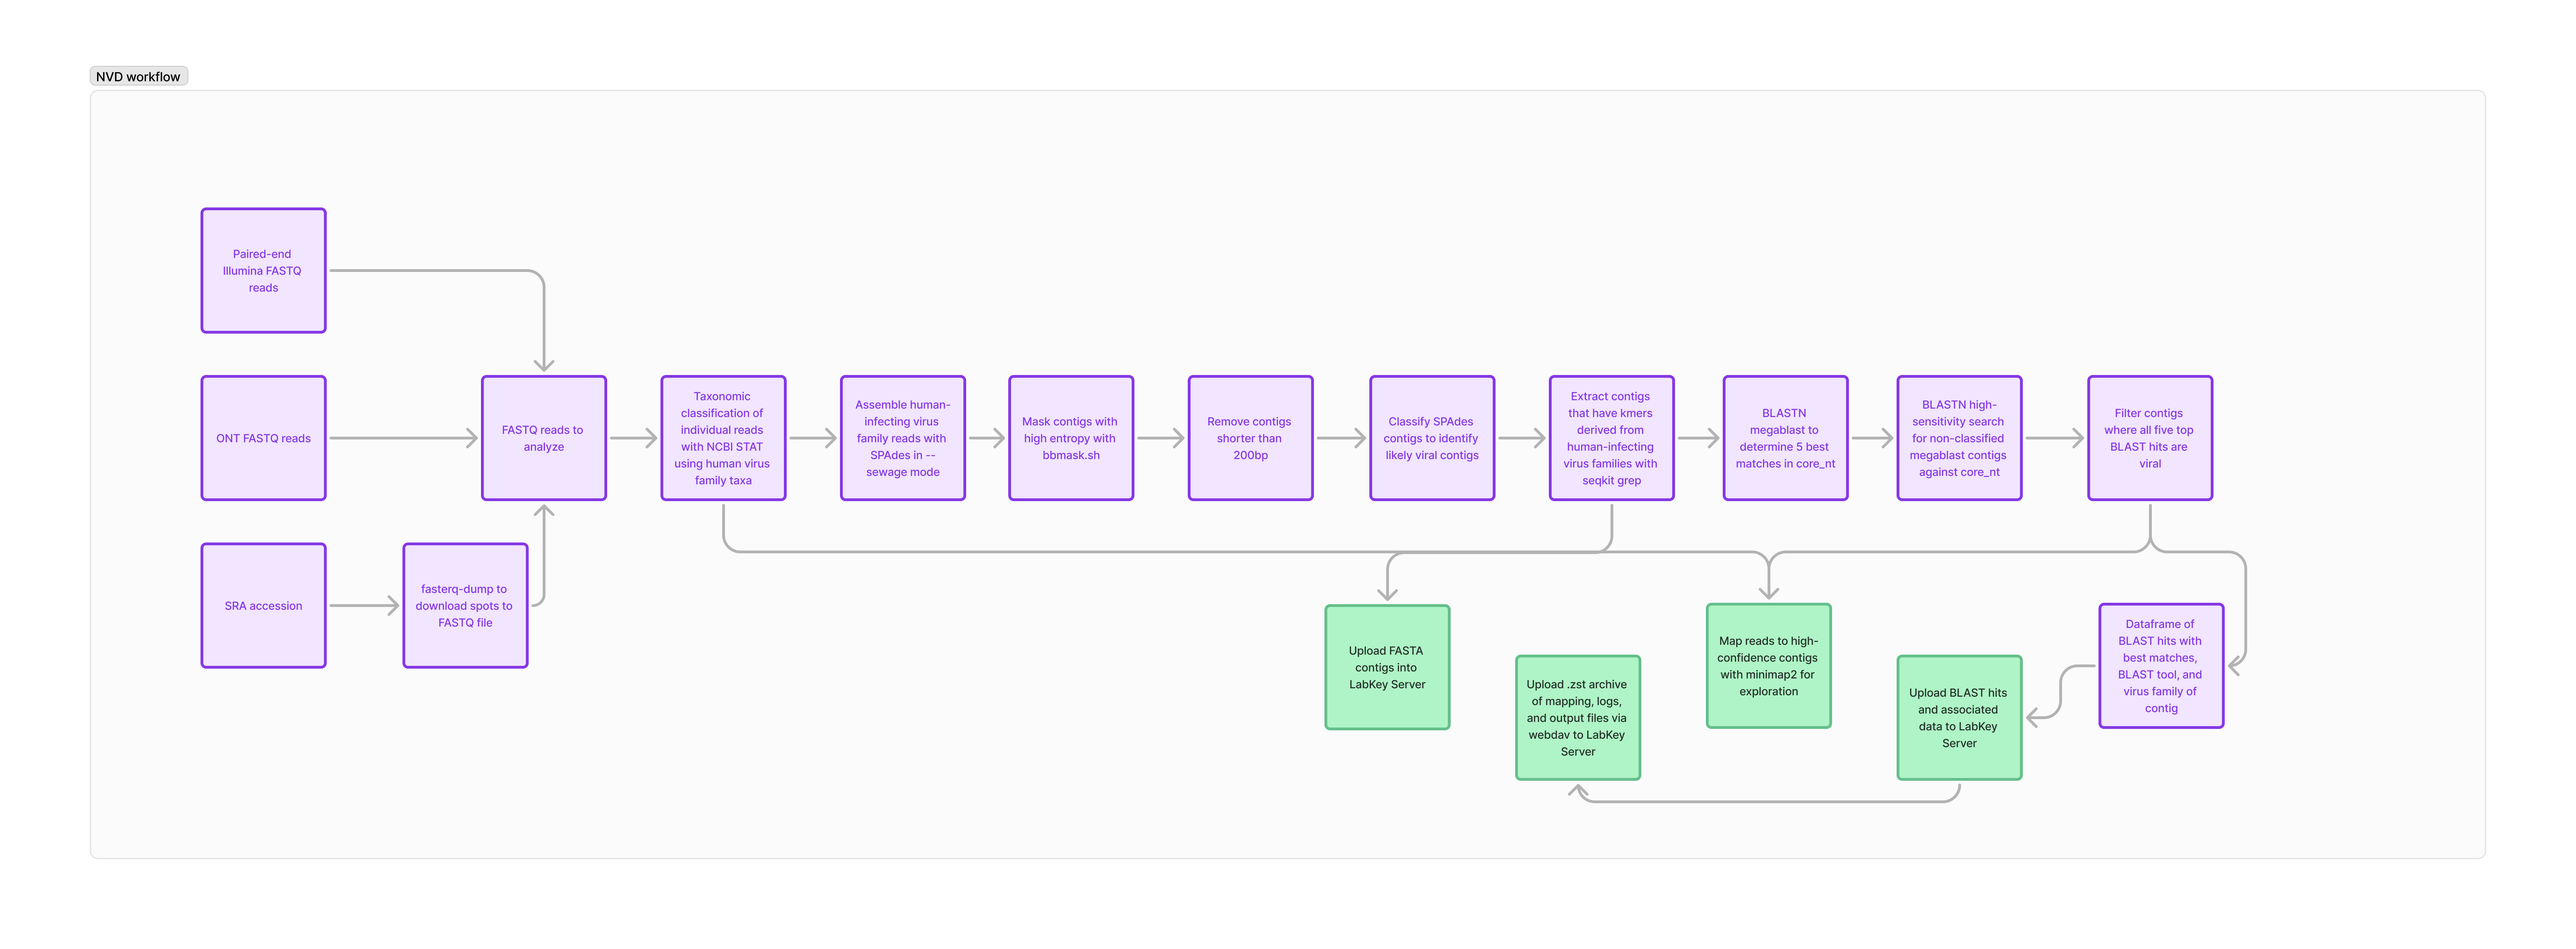
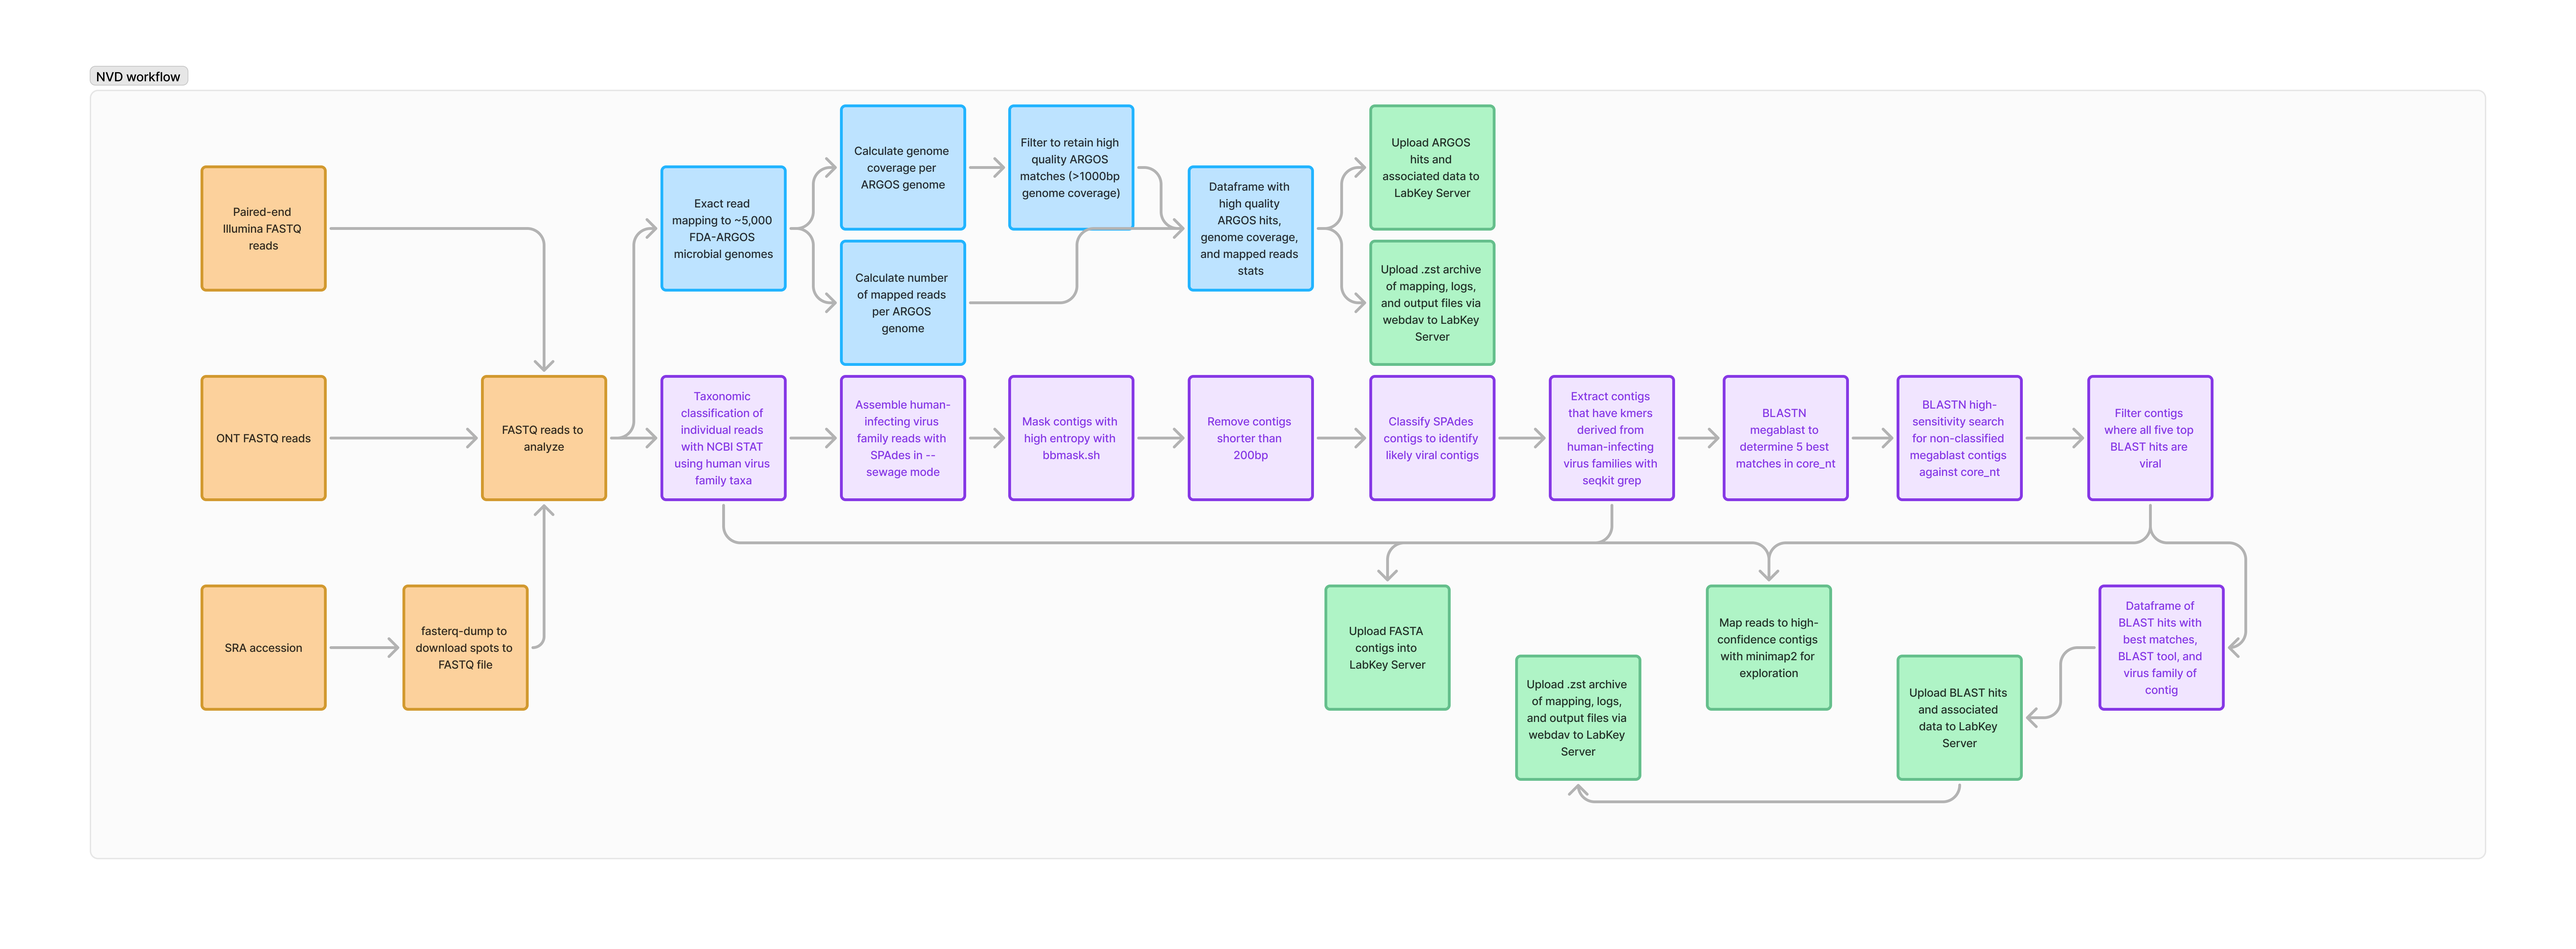
merge

diff --git a/README.md b/README.md
@@ -25,17 +25,20 @@
 ## About NVD
 ![NVD flowchart](nvd_flow.png)
 
-NVD is an opinionated workflow for identifying and exploring metagenomes for families of viruses that infect humans. It is opinionated in that it focuses narrowly on these virus families to the exclusion of other potentially interesting viral and non-viral microbial taxa. NVD works with arbitrarily large Oxford Nanopore and Illumina datasets without downsampling. The results are available in a LabKey Server data explorer available to O'Connor lab users and collaborators. For those without LabKey data explorer access, results are stored locally.
+NVD is an opinionated workflow for identifying and exploring metagenomes for:
+- Families of viruses that infect humans.
+- Sequences that support the presence of microbial reads in [FDA-ARGOS](https://www.fda.gov/medical-devices/science-and-research-medical-devices/database-reference-grade-microbial-sequences-fda-argos).
+It is opinionated in that it focuses narrowly on these tasks to the exclusion of other potentially interesting viral and non-viral microbial taxa. NVD works with arbitrarily large Oxford Nanopore and Illumina datasets without downsampling. The results are available in a LabKey Server data explorer available to O'Connor lab users and collaborators. For those without LabKey data explorer access, results are stored locally.
 
 ### Why Another Metagenomic Workflow?
 
-Good question. When I started working on NVD in June 2024, I hoped to find a widely used, easy-to-use workflow optimized for viral metagenomics. [CZID](https://czid.org) is excellent, but downsamples to a subset of reads. Sometimes this isn't a problem; sometimes it causes substantial reductions in sensitivity. The outstanding [Sourmash](https://github.com/sourmash-bio/sourmash) tools perform informative, efficient searches against reference databases but do not generate contigs that can be used to characterize interesting viruses.
+Good question. When I started working on NVD in June 2024, I hoped to find a widely used, easy-to-use workflow optimized for viral metagenomics. [CZID](https://czid.org) is excellent, but downsamples to a subset of reads. Sometimes this isn't a problem; sometimes it causes substantial reductions in sensitivity. The outstanding [Sourmash](https://github.com/sourmash-bio/sourmash) tools perform informative, efficient searches against reference databases but do not generate contigs that can be used to characterize interesting viruses. In December 2024 I added functionality for exploring matches to FDA-ARGOS reference microbial genomes.
 
 ### What Does NVD Do?
 
 NVD begins with one or more Illumina paired-end or Oxford Nanopore datasets. It can also evaluate datasets downloaded from NCBI SRA. In the case of Illumina datasets, paired-end sequences are interleaved and properly paired using the bbmap `repair.sh` tool before processing.
 
-These reads are the classified with the NCBI STAT tool, specifically the `aligns_to` command. A tax list containing the entire subtree of the virus families that infect humans is used for classification. This means that NVD is designed to find members of these virus families:
+These reads are classified with the NCBI STAT tool, specifically the `aligns_to` command. A tax list containing the entire subtree of the virus families that infect humans is used for classification. This means that NVD is designed to find members of these virus families:
 
 - Adenoviridae
 - Anelloviridae
@@ -77,13 +80,15 @@ These viral contigs are then used as BLAST queries against the NCBI `core-nt` da
 Additionally, the putative viral reads are mapped against the viral contigs. This allows further exploration and confirmation of any unexpected or unusual hits.
 
 The blast classifications, read mapping information, and associated contig metadata are then saved to an output folder in CSV format (and loaded into a database in the O'Connor lab LabKey Server, if appropriate access credentials are provided). `.zst` archives containing useful data files (e.g., read mapping `.bam` files) are also saved in the output folder.
+
+The input reads are also mapped to 4,889 sequences in the [FDA-ARGOS](https://www.ncbi.nlm.nih.gov/bioproject/231221) database. Reads are mapped with `minimap` and then filtered using `reformat.sh` to retain only reads with no soft clipping or substitutions relative to the reference sequence. That is, sequences that are exact matches or exact matches with one or more indels, to improve sensitivity with ONT data. Read coverage of each reference sequence is computed and all reference sequences with at least 2kb of read coverage (an opinionated but ultimately arbitrary threshold that seems to strike a good balance between sensitivity and specificity) are retained. For each of these high-quality microbial hits, data on genome coverage and the number of mapped reads are saved to a CSV file (and loaded into a database in the O'Connor lab LabKey Server if appropriate credentials are provided). FDA-ARGOS reference sequences for these hits and the `.bam` files of reads mapped to these references are saved in the `.zst` archive for additional exploration.  
   
 <p align="right">(<a href="#readme-top">back to top</a>)</p>
 
 <!-- GETTING STARTED -->
 ## Getting Started
 
-NVD is written in Snakemake and has its dependencies bundled in an Apptainer container. NVD should work on machines with at least 32GB of available RAM. The `resources.zst` file is approximately 230GB. After decompression, it is approximately 300GB. The amount of storage needed depends on the size of the FASTQ files; 530GB plus 3x the size of the input FASTQ files is a good guide. For example, if the input FASTQ files are 100GB, ensure that at least 830GB of storage are available. Most testing has been done on Ubuntu Linux, however, a Dockerfile for replicating the Apptainer image is available for running on Macs running Docker Desktop.
+NVD is written in Snakemake and has its dependencies bundled in an Apptainer container. NVD should work on machines with at least 32GB of available RAM. The `resources.zst` file is approximately 250GB. After decompression, it is approximately 285GB. The amount of storage needed depends on the size of the FASTQ files; 550GB plus 3x the size of the input FASTQ files is a good guide. For example, if the input FASTQ files are 100GB, ensure that at least 850GB of storage are available. Most testing has been done on Ubuntu Linux, however, a Dockerfile for replicating the Apptainer image is available for running on Macs running Docker Desktop.
 
 ### Prerequisites
 
@@ -92,11 +97,23 @@ NVD is written in Snakemake and has its dependencies bundled in an Apptainer con
 - [Apptainer](https://apptainer.org/docs/admin/main/installation.html) (for Linux)
 - [Docker Desktop](https://www.docker.com/products/docker-desktop/) (for MacOS)
 - [Snakemake](https://snakemake.readthedocs.io/en/stable/)
-- The `resources.zst` archive containing NCBI BLAST `core-nt`, NCBI STAT databases, a taxonomic rank database, and a taxonomic list of the subtree of human-infecting virus families.
+- The `resources.zst` archive containing:
+	- NCBI BLAST `core-nt`
+   	- NCBI STAT databases
+   	- A taxonomic rank database
+    	- A taxonomic list of the subtree of human-infecting virus families
+   	- A gzipped-FASTA file with the FDA-ARGOS sequences
 
-The `resources.20240830.zst` version contains `core-nt` downloaded from NCBI on 2024-08-03, the STAT tree index downloaded 2024-08-30, the STAT tree filter.dbss and associated annotations downloaded 2024-08-30, `gettax.sqlite` downloaded on 2024-08-30, and a `human_viruses_taxlist.txt` created on 2024-09-05. 
-- The `workflow` folder containing the Snakemake workflow and associated python scripts
-- A `config` folder containing a `config.yaml` file specifying runtime variables and the samples to be analyzed. You also need to get the LabKey API Key, LabKey username, and LabKey password information from DHO for LabKey integration.
+The `resources.20241204.zst` version contains:
+- `core-nt` downloaded from NCBI on 2024-08-03
+- the STAT tree index downloaded 2024-08-30
+- the STAT tree filter.dbss and associated annotations downloaded 2024-08-30
+- `gettax.sqlite` downloaded on 2024-08-30
+- a `human_viruses_taxlist.txt` created on 2024-09-05
+- an FDA-ARGOS database downloaded on 2024-12-01.
+  
+The `workflow` folder containing the Snakemake workflow and associated python scripts
+The `config` folder containing a `config.yaml` file specifying runtime variables and the samples to be analyzed. You also need to get the LabKey API Key, LabKey username, and LabKey password information from DHO for LabKey integration.
 
 ### Linux Installation
 
@@ -110,17 +127,12 @@ The `resources.20240830.zst` version contains `core-nt` downloaded from NCBI on 
 	conda activate nvd
 	conda install -y snakemake apptainer -c conda-forge
 	``` 
-3. [Download](https://g-2e5b4e.dtn.globus.wisc.edu/nvd/nvd.30572.sif)) the Apptainer image file. If you have Globus access, this link is much, much faster than the `wget` access command shown below:.
-   ```sh
-   wget https://dholk.primate.wisc.edu/_webdav/dho/projects/lungfish/InfinitePath/public/%40files/nvd.30572.sif
-   ```
-4. [Download](https://g-2e5b4e.dtn.globus.wisc.edu/nvd/resources.20240830.zst) the `resources.zst` file containing databases and taxonomy files (note, this is ~230GB and will take a while to download. I suggest going out for an iced tea while you wait). If you have Globus access, this link is much, much faster than the `wget` access command shown below:
-   ```sh
-   wget https://dholk.primate.wisc.edu/_webdav/dho/projects/lungfish/InfinitePath/public/%40files/resources.20240830.zst
-   ```
+3. [Download](https://dholk.primate.wisc.edu/_webdav/dho/projects/lungfish/InfinitePath/public/%40files/nvd.30572.sif) the Apptainer image file.
+
+4. [Download][(https://g-2e5b4e.dtn.globus.wisc.edu/nvd/resources.20241204.zst] the `resources.zst` file containing databases and taxonomy files. Note, this is ~250GB and will take a while to download. I suggest going out for an iced tea while you wait.
 5. Decompress the `resources.zst` file in the working directory and remove source after decompression
    ```sh
-   tar -I zstd -xvf resources.20240830.zst && rm resources.20240830.zst
+   tar -I zstd -xvf resources.20241204.zst && rm resources.20241204.zst
    ```
 6. Copy gzipped-FASTQ files to process into `data` folder within the working directory.
 7. Modify the `config.yaml` file to specify the experiment number (an integer) and an output directory.
@@ -137,7 +149,7 @@ The `resources.20240830.zst` version contains `core-nt` downloaded from NCBI on 
    ```
    Many samples can be processed in the same workflow invokation. Multiple sample types can be processed at once. There is also a version of this workflow that runs one sample at a time on [CHTC](https://chtc.cs.wisc.edu) execute nodes. Ask DHO for details. 
    (note: if you have access to upload results to the LabKey data explorer, you will also need to add LabKey credentials to the `config.yaml` file. Ask DHO for details.)
-10. Start an Apptainer shell in the working directory with the repo files
+9. Start an Apptainer shell in the working directory with the repo files
    ```
    apptainer shell nvd.30572.sif
    ```
@@ -157,7 +169,7 @@ After installation, there should be `data`, `config`, `resources`, and `workflow
 	conda activate nvd
 	conda install -y snakemake -c conda-forge
 	```
-4. [Download](https://g-2e5b4e.dtn.globus.wisc.edu/nvd/nvd.30572.tar) the Docker image file. If you have Globus access, this link is much, much faster than the `wget` access command shown below:
+4. [Download](https://g-2e5b4e.dtn.globus.wisc.edu/nvd/nvd.30572.tar](https://dholk.primate.wisc.edu/_webdav/dho/projects/lungfish/InfinitePath/public/%40files/nvd.30572.tar) the Docker image file. If you have Globus access, this link is much, much faster than the `wget` access command shown below:
    ```sh
    wget https://dholk.primate.wisc.edu/_webdav/dho/projects/lungfish/InfinitePath/public/%40files/nvd.30572.tar
    ```
@@ -165,13 +177,10 @@ After installation, there should be `data`, `config`, `resources`, and `workflow
    ```sh
    docker load -i docker/nvd.tar
    ```
-6. [Download](https://g-2e5b4e.dtn.globus.wisc.edu/nvd/resources.20240830.zst) the `resources.zst` file containing databases and taxonomy files (note, this is ~230GB and will take a while to download. I suggest going out for an iced tea while you wait). If you have Globus access, this link is much, much faster than the `wget` access command shown below:
-   ```sh
-   wget https://dholk.primate.wisc.edu/_webdav/dho/projects/lungfish/InfinitePath/public/%40files/resources.20240830.zst
-   ```
+6. [Download](https://dholk.primate.wisc.edu/_webdav/dho/projects/lungfish/InfinitePath/public/%40files/resources.20241204.zst)) the `resources.zst` file containing databases and taxonomy files. Note, this is ~250GB and will take a while to download. I suggest going out for an iced tea while you wait.
 7. Decompress the `resources.zst` file in the working directory and remove source after decompression
    ```sh
-   tar -I zstd -xvf resources.20240830.zst && rm resources.20240830.zst
+   tar -I zstd -xvf resources.20241204.zst && rm resources.20241204.zst
    ```
 8. Copy gzipped-FASTQ files to process into `data` folder within the working directory.
 9. Modify the `config.yaml` file to specify the samples to process and the path(s) to their FASTQ files. Here are example entries for the three supported file types:
@@ -225,6 +234,7 @@ Use this carefully, since regenerating the `results` directory would require re-
 ## Roadmap
 
 - 2024-09-10 - first public release version
+- 2024-12-04 - added FDA ARGOS microbial read searching
 - I expect to update the databases approximately annually to incorporate newly discovered virus sequences
 
 See the [open issues](https://github.com/dhoconno/nvd/issues) for a full list of proposed features (and known issues).
@@ -263,7 +273,7 @@ See `LICENSE.txt` for more information.
 <!-- CONTACT -->
 ## Contact
 
-Dave O'Connor - [@dho](https://twitter.com/dho) - dhoconno@wisc.edu
+Dave O'Connor - [https://twitter.com/dho](https://bsky.app/profile/dhoconno.bsky.social) - dhoconno@wisc.edu
 
 Project Link: [https://github.com/dhoconno/nvd](https://github.com/dhoconno/nvd)
 
@@ -273,8 +283,9 @@ Project Link: [https://github.com/dhoconno/nvd](https://github.com/dhoconno/nvd)
 ## Acknowledgments
 
 * [Marc Johnson](https://medicine.missouri.edu/faculty/marc-johnson-phd) and [Shelby O'Connor](https://slo.pathology.wisc.edu), my partners in innovative pathogen monitoring from environmental samples.
-* Kenneth Katz, NCBI, for developing NCBI STAT, maintaining pre-built databases for STAT, and helpful discusssions
+* Kenneth Katz, NCBI, for developing NCBI STAT, maintaining pre-built databases for STAT, and helpful discussions
 * [C. Titus Brown](https://www.vetmed.ucdavis.edu/faculty/c-titus-brown), for helpful discussions of using kmer classifiers as part of metagenomic workflows
+* [Tim Stinear](https://www.doherty.edu.au/people/tim-stinear), [Ryan Wick](https://github.com/rrwick), and [Calum Walsh](https://biomedicalsciences.unimelb.edu.au/research/emcra/researcher-profiles/calum-walsh) for brainstorming ways of identifying non-viral microbial sequences
 * Development funded by [Inkfish](https://ink.fish)
 
 <p align="right">(<a href="#readme-top">back to top</a>)</p>
